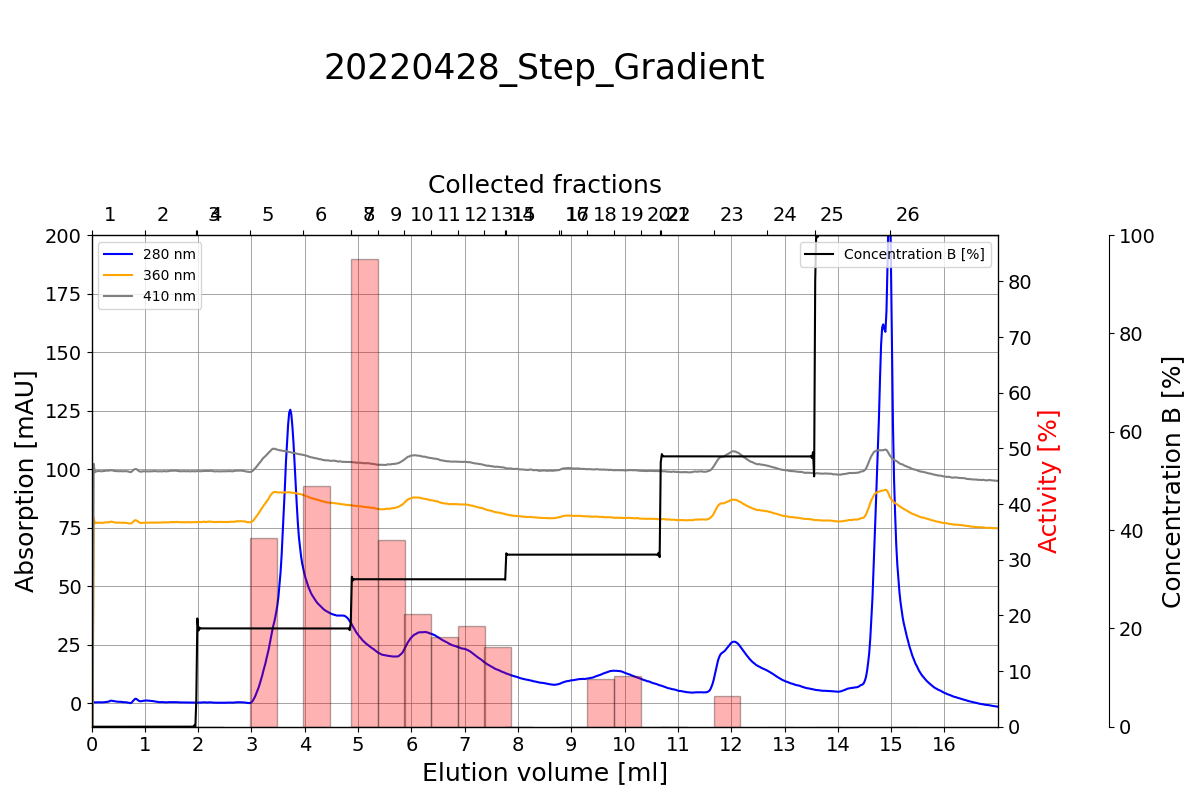
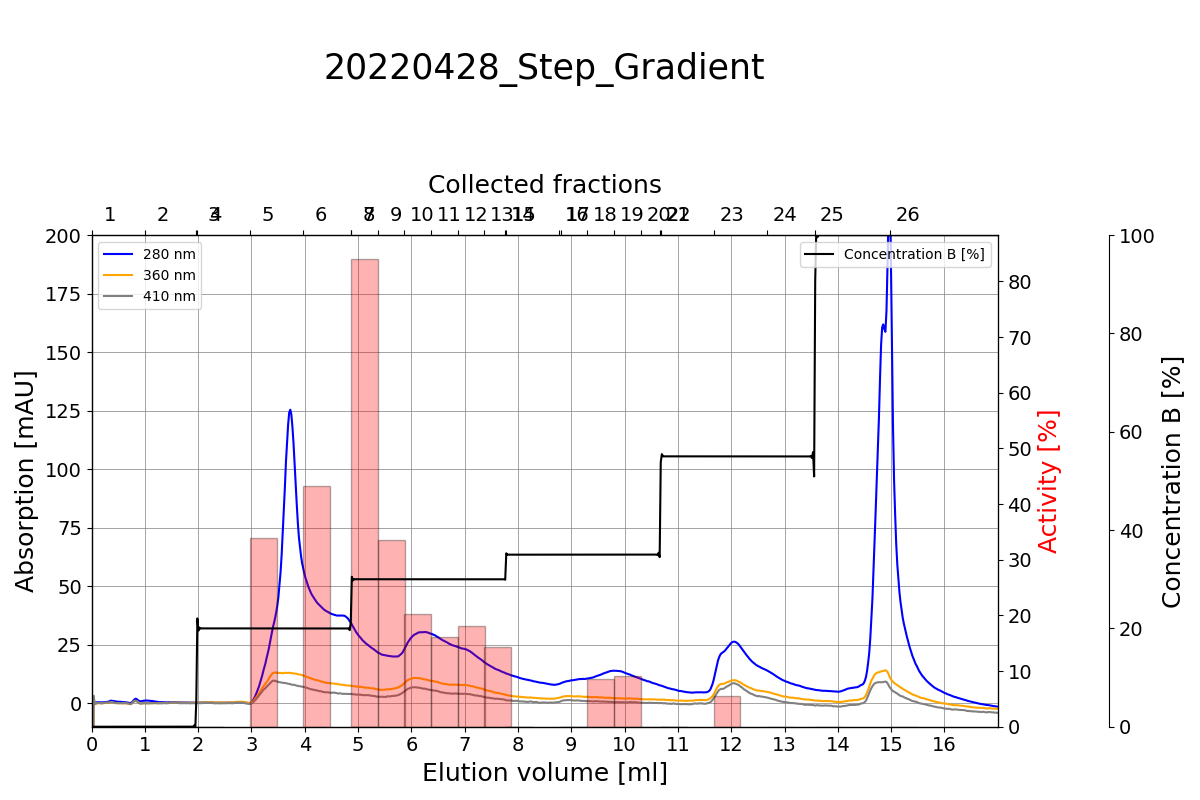
alle bilder sind dabeeeeiiiii

diff --git a/AEX_chromatogram.py b/AEX_chromatogram.py
@@ -8,10 +8,10 @@ from matplotlib.transforms import ScaledTranslation
 # TODO es muss aufgefordrt werden Activity werte hinzuzufügen und eine extra spalte dafür eingefügt werden (column 23)
 # open csv file of interest but skip the first two rows
 data = pd.read_csv(
-    r'C:\Users\hellmold\Nextcloud\Experiments\Anion_exchange_chromatography\20220428_AEX_LB147b.csv',
-    skiprows=2, delimiter='\t')  # falls mit tabs getrennt '\t' oder';' regex doesnt work
+    r'C:\Users\hellmold\Nextcloud\Experiments\Anion_exchange_chromatography\20220504_Elution.csv',
+    skiprows=2, delimiter=';')  # falls mit tabs getrennt '\t' oder';' regex doesnt work
 
-figure_name = '20220428_Step_Gradient'
+figure_name = '20220504_Elution'
 
 # change the headers (3 x mAU) to unique headers for UV absorbance
 names = data.columns.tolist()
@@ -27,16 +27,18 @@ df = df.drop_duplicates(subset=['min'], keep='last').dropna()
 
 # parameters for plot/ figure
 # if 2 different flow rates were used for binding and elution
-flowrate_binding = 0.3  #[ml/min]
-flowrate_elution = 0.3    # [ml/min]
+flowrate_binding = 0.5  #[ml/min]
+flowrate_elution = 0.5    # [ml/min]
+switch_bind_elution = 0  # timepoint when flow rate was changed, if not set 0
+fraction_size = 0.5
 
 xmin = 0
-xmax = 17
+xmax = 16
 step = 1 # steps on x-axis
 ymin = -10
 #ymin = df['UV1_280nm'].min() + 5
 #ymax = df['UV1_280nm'].max() + 5
-ymax = 200
+ymax = 150
 
 # "elution" ist die von "min" in elution volumen umgerechnete spalte
 # "frac" ist die spalte mit den gesammelten fraktionen in dem data sheet
@@ -44,7 +46,7 @@ ymax = 200
 elution = []
 #print(type(elution))
 for time_point in df['min'].dropna():
-    if time_point <= 6.53:
+    if time_point <= switch_bind_elution:
         elution.append(time_point * flowrate_binding)
     else:
         elution.append(time_point * flowrate_elution)
@@ -57,27 +59,29 @@ listen = lis['min.10']
 
 #print(lis['min.10'])
 for sample_tp in listen:
-    if float(sample_tp) <= 6.53:
+    if float(sample_tp) <= switch_bind_elution:
         frac.append(sample_tp * flowrate_binding)
     else:
         frac.append(sample_tp * flowrate_elution)
-print(frac)
 
-# define df for activity (columns: u, v, w (activity, x)
+# define df for activity (columns: u, v, w (activity)
 activity = data.iloc[:, 20:23].dropna()
 activity['frac_start [ml]'] = frac
 activity.drop(activity[(activity['(Fractions)'] == 'Waste')].index, inplace=True)
 
 y1 = df['UV1_280nm']
 # remove zero values from 360 (and 410nm)
-# TODO: es müssen beide fälle gleichzeitig abgedeckt werden, dass es 0 werte bei 360 und 410 gibt!
+# TODO: es muss verdammt nochmal iwie diese kack baseline zuverlässig von 410 und 360 abgezogen werden
 df_nonull = df[df['UV3_410nm'] != 0]
-# get min value for UV2_360 and subtract. baseline at 360 nm ~55
-y2_min = df_nonull['UV2_360nm'].min()
-y2 = df['UV2_360nm'].dropna().apply(lambda x: x - (y2_min + 5))
-# get min value for UV3_410 and subtract. basline at 410 nm ~80
-y3_min = df_nonull['UV3_410nm'].min()
-y3 = df['UV3_410nm'].dropna().apply(lambda x: x - (y3_min + 5))
+
+#y2_min = df_nonull['UV2_360nm'].min()
+y2_start = df['UV2_360nm'][2]
+y2 = df['UV2_360nm'].dropna().apply(lambda x: x - y2_start)
+
+#y3_min= df_nonull['UV3_410nm'].min()
+y3_start = df['UV3_410nm'][2]
+y3 = df['UV3_410nm'].dropna().apply(lambda x: x - y3_start)
+
 y4 = data['%B'].dropna()
 y4_min = 0
 y4_max = 100
@@ -120,8 +124,11 @@ par4.set_ylim(y4_min, y4_max)
 host.xaxis.set_ticks(np.arange(xmin, xmax, step))
 host.tick_params(axis='x', labelsize=14)
 
-# set x2 ticks (collected fractions)
-x3 = [str(i + 1) for i in range(activity.shape[0])]  # zählt durch die anzahl der fractions in df activity durch
+# TODO: automaddisch die unnötigen fractionen aus df löschen ohne die händisch aus csv file entfernen zu müssen
+# set x2-ticks (collected fractions) -> delete useless fractions in csv file manually
+col_frac_to_list = activity['(Fractions)'].tolist()
+x3 = col_frac_to_list
+
 host2.xaxis.set_ticks(activity['frac_start [ml]'].values.tolist())  # wo die ticks gesetzt werden
 host2.xaxis.set_ticklabels(x3)  # was an den ticks steht
 host2.tick_params(axis='x', labelsize=14)
@@ -156,7 +163,7 @@ power_smooth4 = spl4(xnew)
 p1, = host.plot(xnew, power_smooth1, color=color1, label="280 nm")
 p2, = host.plot(xnew, power_smooth2, color=color2, label="360 nm")
 p3, = host.plot(xnew, power_smooth3, color=color3, label="410 nm")
-par3.bar(activity['frac_start [ml]'], activity['Activity [%]'], 0.5, align='edge', color='red', alpha=0.3,
+par3.bar(activity['frac_start [ml]'], activity['Activity [%]'], fraction_size, align='edge', color='red', alpha=0.3,
          edgecolor="black")
 p4, = par4.plot(xnew, power_smooth4, color=color4, label="Concentration B [%]")
 

diff --git a/SEC_chromatogram.py b/SEC_chromatogram.py
@@ -8,7 +8,7 @@ from matplotlib.transforms import ScaledTranslation
 # TODO es muss aufgefordrt werden Activity werte hinzuzufügen und eine extra spalte dafür eingefügt werden (column 23)
 # open csv file of interest but skip the first two rows
 data = pd.read_csv(
-    r'C:\Users\hellmold\Nextcloud\Experiments\Size_exclusion_chromatography\20220429_SEC_wAEX_fractions\20220429_SEC_of_F6_concentratedw100k.csv',
+    r'C:\Users\hellmold\Nextcloud\Experiments\Size_exclusion_chromatography\20220429_SEC_wAEX_fractions\20220429_SEC_of_F8_concentratedw100k.csv',
     skiprows=2, delimiter=';')  # falls mit tabs getrennt '\t' oder';'
 
 # change the headers (3 x mAU) to unique headers for UV absorbance
@@ -22,13 +22,13 @@ df = pd.DataFrame(data, columns=['min', 'UV1_280nm', 'UV2_360nm', 'UV3_410nm'])
 df = df.drop_duplicates(subset=['min'], keep='last').dropna()
 
 # parameters for plot/ figure
-figure_name = "20220429_SEC_F6"
-flowrate = 0.05     # [ml/min]
+figure_name = "20220429_SEC_F8"
+flowrate = 0.02     # [ml/min]
 xmin = 0
 xmax = 2.6
 step = 0.2  # steps on x-axis
-ymin = -6
-ymax = 10
+ymin = -5
+ymax = 150
 #ymin = df['UV1_280nm'].min() + 5
 #ymax = df['UV1_280nm'].max() + 5
 
@@ -38,7 +38,6 @@ ymax = 10
 # "frac" ist die spalte mit den gesammelten fraktionen in dem data sheet
 elution = df['min'].dropna().apply(lambda x: x * flowrate)
 frac = data.iloc[:, [20]].dropna().apply(lambda x: x * flowrate)
-print(frac)
 
 # define df for activity (columns: u, v, w, x)
 activity = data.iloc[:, 20:23].dropna()
@@ -46,16 +45,17 @@ activity['frac_start [ml]'] = frac
 
 y1 = df['UV1_280nm']
 # remove zero values from 360 (and 410nm)
-# TODO: es müssen beide fälle gleichzeitig abgedeckt werden, dass es 0 werte bei 360 und 410 gibt!
+# TODO: es muss verdammt nochmal iwie diese kack baseline zuverlässig von 410 und 360 abgezogen werden
 df_nonull = df[df['UV3_410nm'] != 0]
-# get min value for UV2_360 and subtract. baseline at 360 nm ~55
-y2_min = df_nonull['UV2_360nm'].min()
-y2 = df['UV2_360nm'].dropna().apply(lambda x: x - (y2_min + 15))
-# get min value for UV3_410 and subtract. basline at 410 nm ~80
-y3_min = df_nonull['UV3_410nm'].min()
-y3 = df['UV3_410nm'].dropna().apply(lambda x: x - (y3_min + 40))
-print(y3)
-print(y3_min)
+
+#y2_min = df_nonull['UV2_360nm'].min()
+y2_start = df['UV2_360nm'][2]
+y2 = df['UV2_360nm'].dropna().apply(lambda x: x - y2_start)
+
+#y3_min= df_nonull['UV3_410nm'].min()
+y3_start = df['UV3_410nm'][2]
+y3 = df['UV3_410nm'].dropna().apply(lambda x: x - y3_start)
+
 
 # Create figure and subplot manually
 fig = plt.figure()
